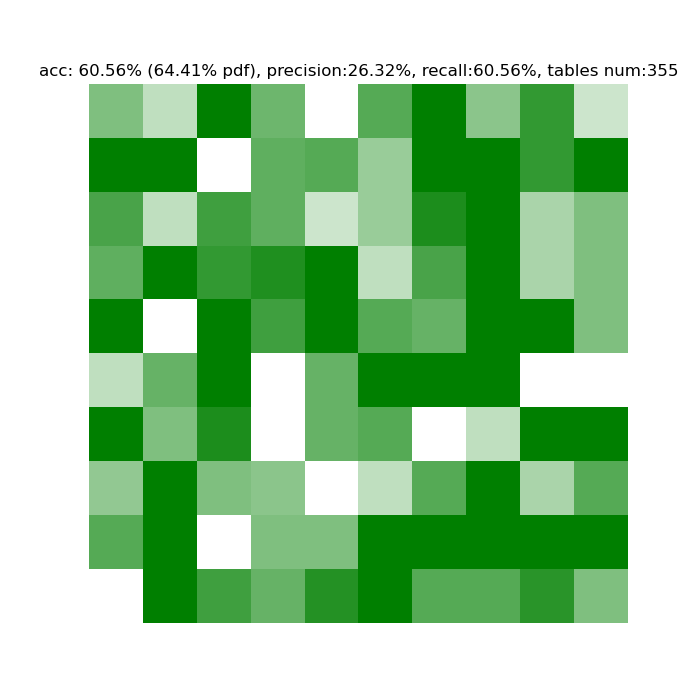
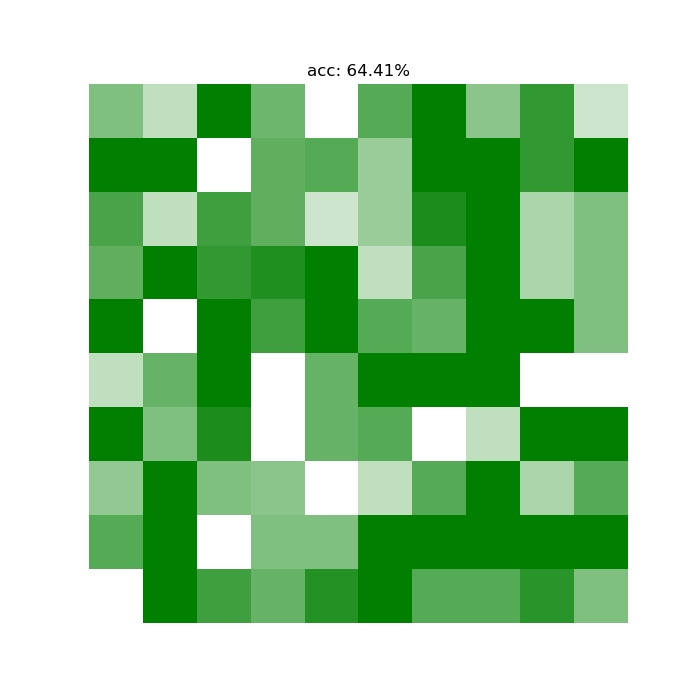
Updated accuracy over pdfs with plots

Changed region(s): [[0.06, 0.09, 0.96, 0.12]]

diff --git a/core/analysis/results_plotter.py b/core/analysis/results_plotter.py
@@ -31,7 +31,8 @@ def plot_results(TP, TN, FP, FN, files_percentage_ok, color_min=None, color_max=
     N = 0
     acc = (TP+TN)/(P+N)
     accuracy_over_pdfs = np.mean(y)
-    plt.title("acc: {:.2f}% ({:.2f}% pdf), precision:{:.2f}%, recall:{:.2f}%, tables num:{}".format(acc*100, accuracy_over_pdfs, precision*100, recall*100, tables_num))
+    #plt.title("acc: {:.2f}% ({:.2f}% pdf), precision:{:.2f}%, recall:{:.2f}%, tables num:{}".format(acc*100, accuracy_over_pdfs, precision*100, recall*100, tables_num))
+    plt.title("acc: {:.2f}%".format(accuracy_over_pdfs))
     plt.axis('off')
     plt.imshow(y, cmap=cmap, vmin=color_min, vmax=color_max)
     plt.show()
